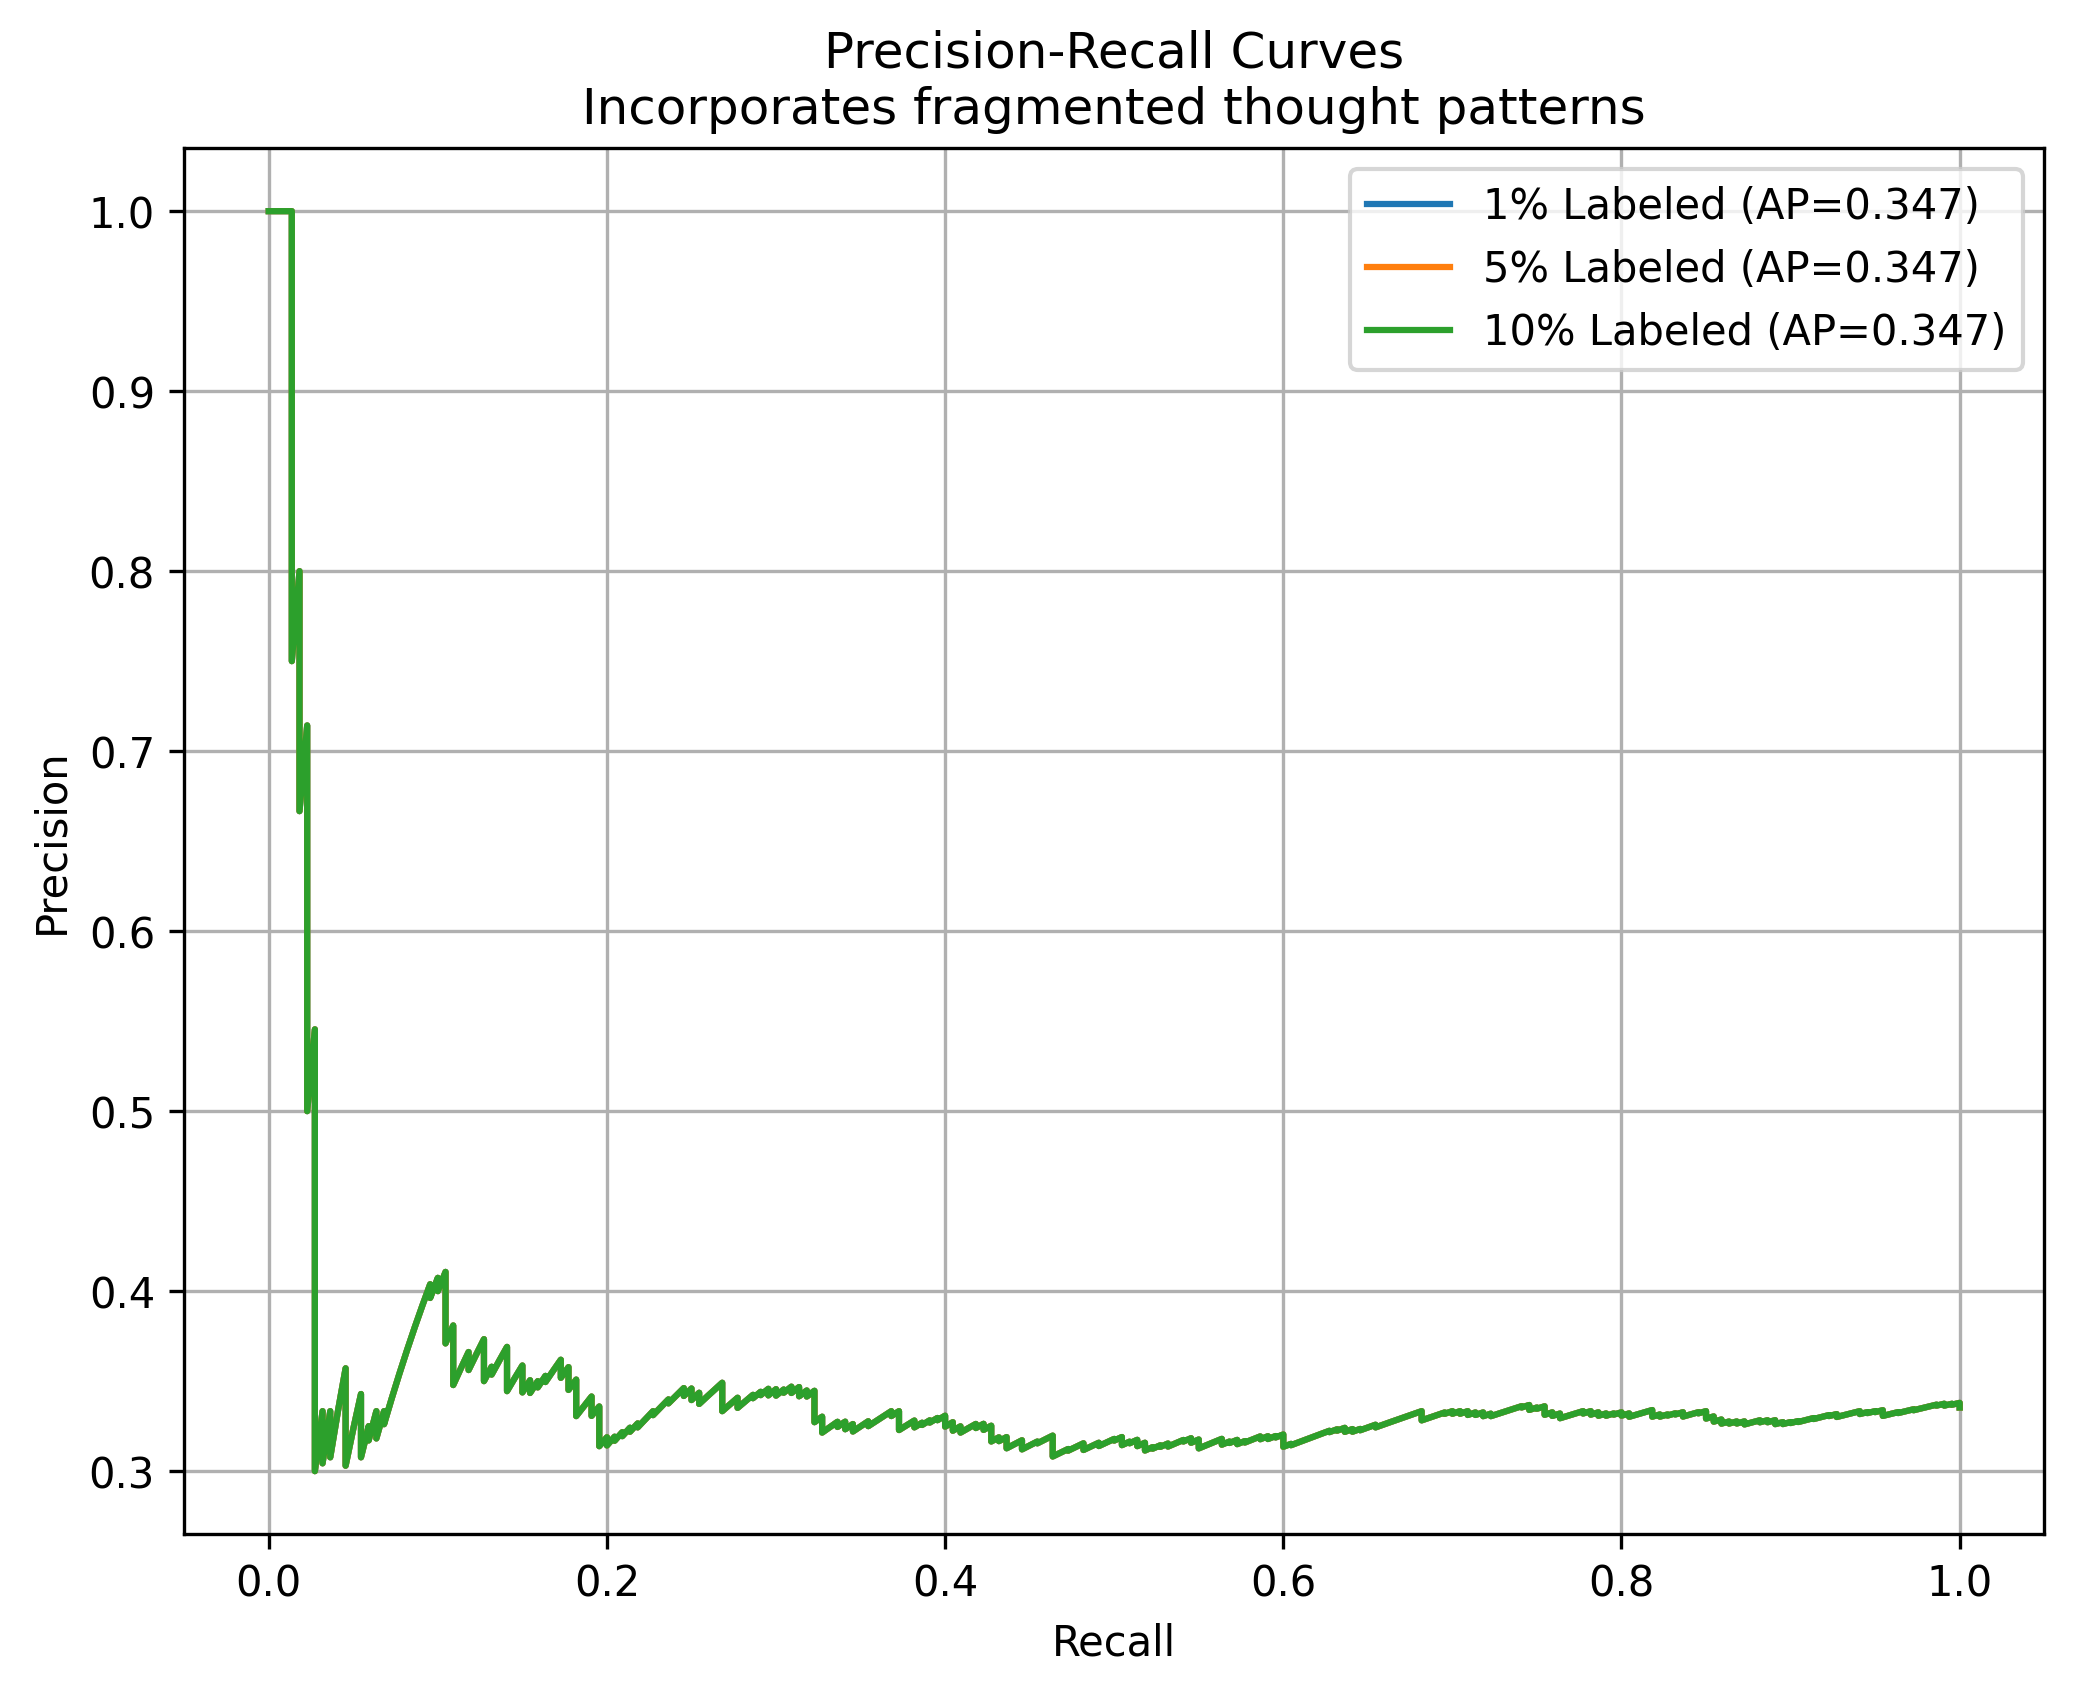
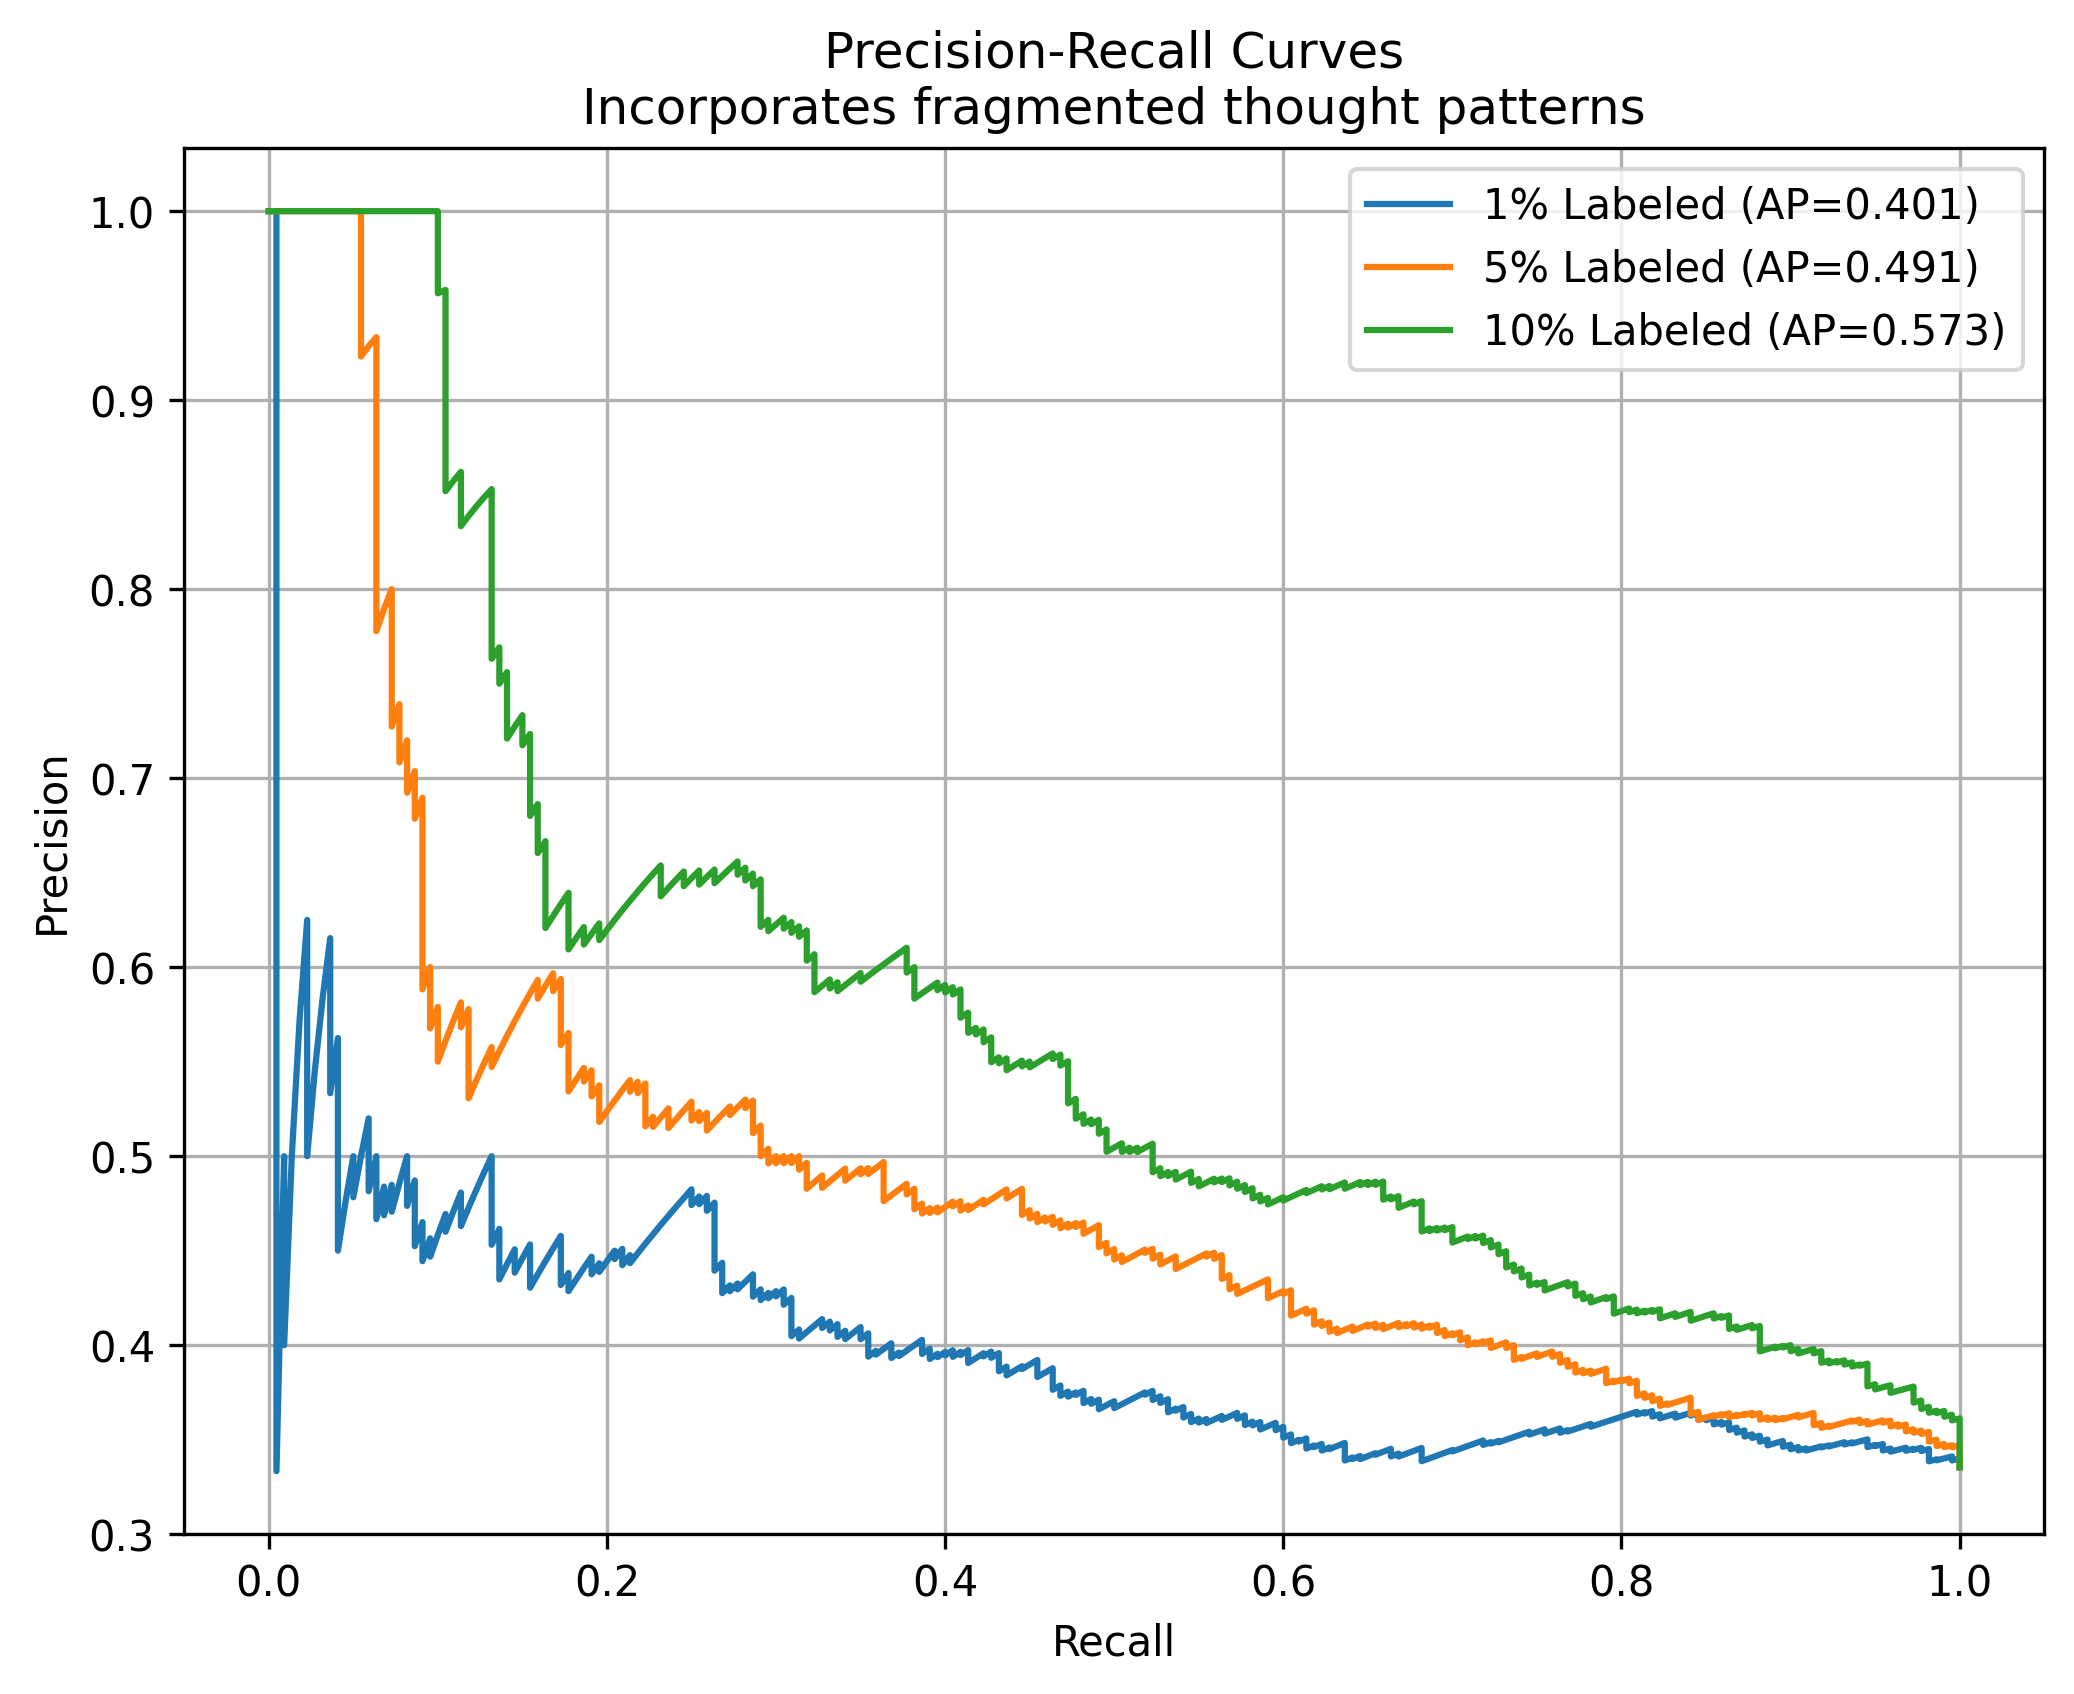
take four with better array generation

diff --git a/label_progation.py b/label_progation.py
@@ -106,19 +106,19 @@ def prepare_data(hypothesis: dict):
     for i in range(len(Y0)):
         if i in one_per_indices:
             Y1.append(Y0[i])
+            Y5.append(Y0[i])
+            Y10.append(Y0[i])
+        else:
+            Y1.append(-1)
             if i in five_per_indices:
                 Y5.append(Y0[i])
+                Y10.append(Y0[i])
+            else:
+                Y5.append(-1)
                 if i in ten_per_indices:
                     Y10.append(Y0[i])
                 else:
                     Y10.append(-1)
-            else:
-                Y5.append(-1)
-                Y10.append(-1)
-        else:
-            Y1.append(-1)
-            Y5.append(-1)
-            Y10.append(-1)
 
     return (X, Y0, Y1, Y5, Y10)
 
